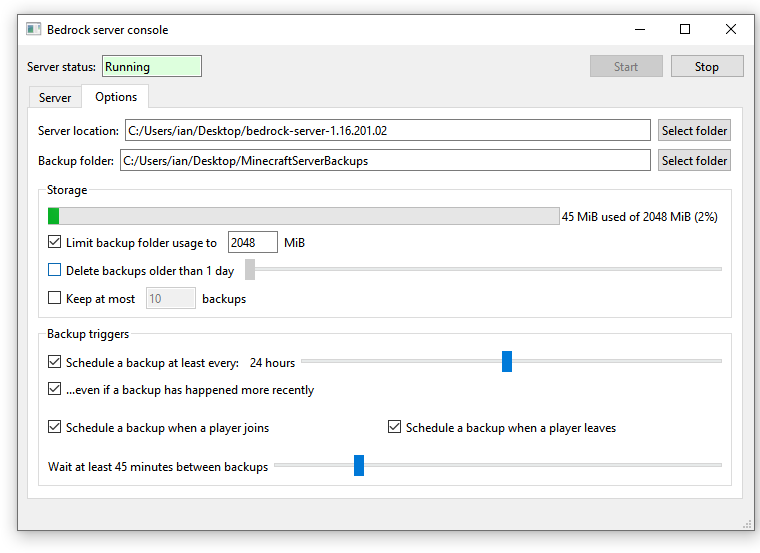
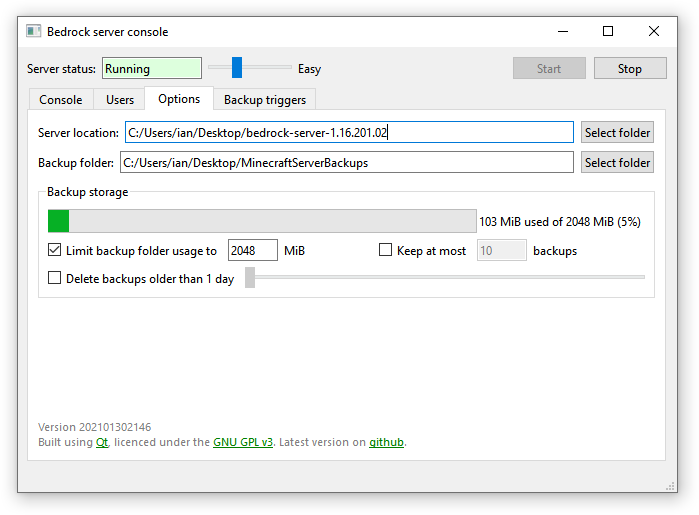
Updated docs.

Changed region(s): [[0.0, 0.0, 1.0, 0.9942], [0.5107, 0.7456, 0.8112, 0.8078], [0.3004, 0.0932, 0.4506, 0.1553]]

diff --git a/README.md b/README.md
@@ -21,9 +21,29 @@ Also, create a folder for backups, and tell it about that too.
 * Take a backup without stopping the server
 * Backups can be automatic, or on certain events.
 
+## Users
+
+![The users window](doc/img/main_users.png)
+
+This is a list of users on the server, you can change a users permission level. 
+
 ## Options
 
 ![The options window](doc/img/main_options.png)
+
+The options window lets you set where backups go, and where your server is.
+
+You can also set limits on the amount of disk space used by backups, and other options relating to auto expiry.
+
+## Backup triggers
+
+![The backup triggers window](doc/img/main_backups.png)
+
+Here you define what triggers a backup. 
+
+The option to wait between backups is to prevent excessive load on a server should a lot of people join or leave in quick sucession. A triggered backup occuring within this number of minutes of the previous backup will be made to wait. Multiple backups triggered in the 'cooldown' period will only cause one to happen.
+
+The `Backup to ZIP file` button will always trigger a backup.
 
 ## Backups
 
